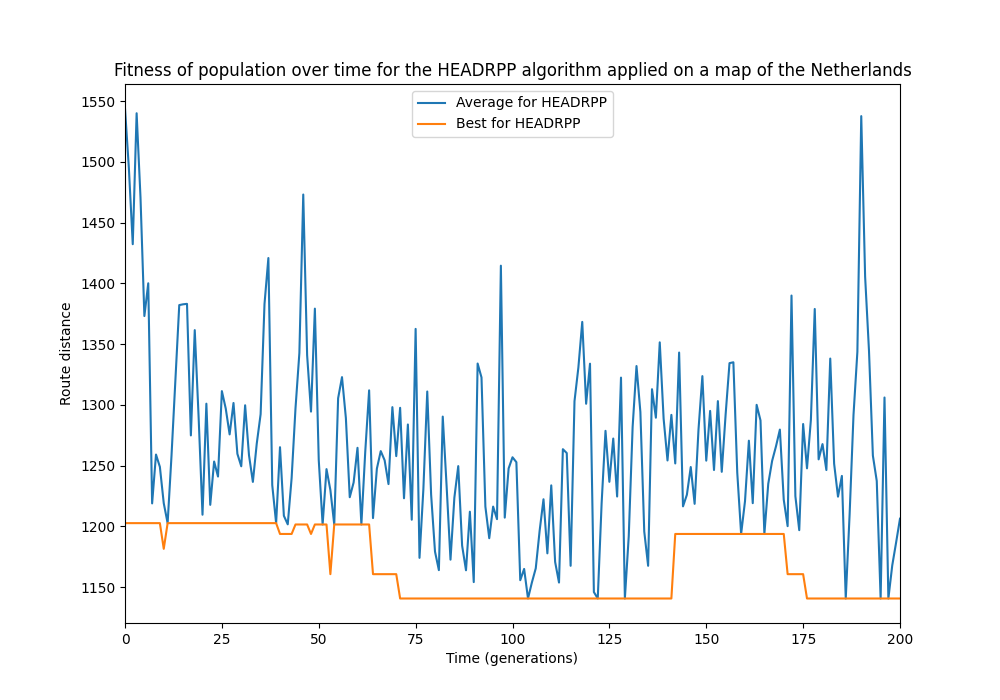
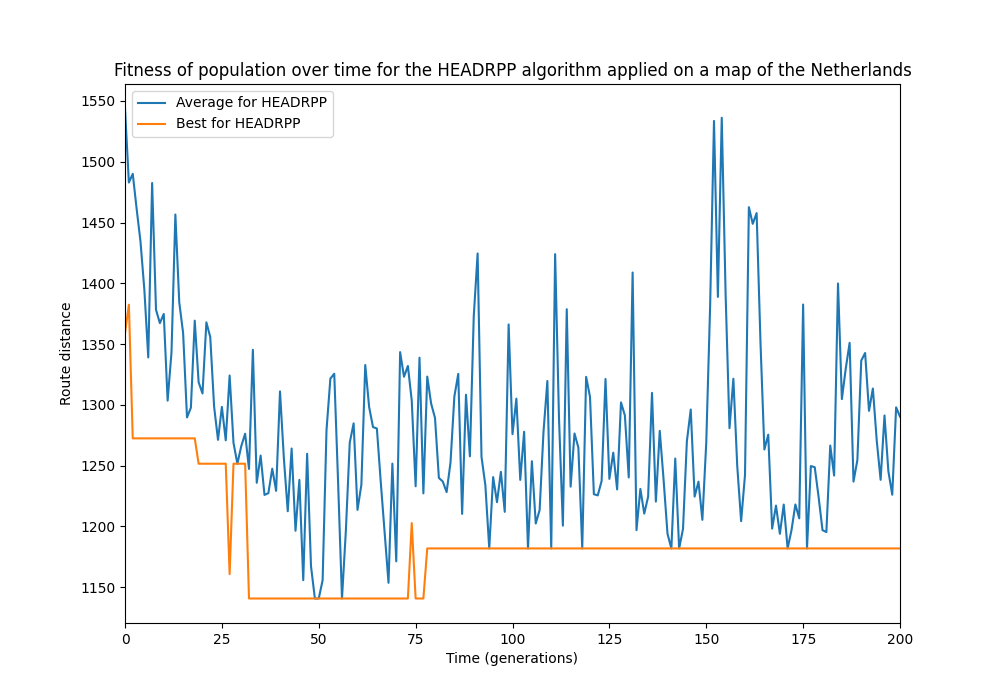
NSGA2 af, behalve crowd disnstance feature calculation

Changed region(s): [[0.093, 0.12, 0.899, 0.87], [0.403, 0.12, 0.62, 0.21]]

diff --git a/scripts/NSGA2.py b/scripts/NSGA2.py
@@ -79,8 +79,6 @@ class NSGA2:
 
 
     def crowding_distance_selection(self, frontiers, group_size):
-        assert len(frontiers) % group_size == 0
-
         parents = []
         i = 0
         while(len(parents)<group_size):
@@ -100,13 +98,13 @@ class NSGA2:
                     for k in range(0, len(frontiers[i])):
                         # Calculate the crowding distance for the individual frontier[i][j]
                         if closest_neighbour_1 is None:
-                            distance_1 = math.dist(frontiers[i][j], frontiers[i][k])
+                            distance_1 = 0 # math.dist(frontiers[i][j], frontiers[i][k])
                             closest_neighbour_1 = (k, distance_1)
                         elif closest_neighbour_2 is None:
-                            distance_2 = math.dist(frontiers[i][j], frontiers[i][k])
+                            distance_2 = 0 # math.dist(frontiers[i][j], frontiers[i][k])
                             closest_neighbour_2 = (k, distance_2)
                         else:
-                            distance_3 = math.dist(frontiers[i][j], frontiers[i][k])
+                            distance_3 = 0 # math.dist(frontiers[i][j], frontiers[i][k])
                             if distance_3 < closest_neighbour_1[1]:
                                 closest_neighbour_1 = (k, distance_3)
                             elif distance_3 < closest_neighbour_2[1]:
@@ -115,11 +113,14 @@ class NSGA2:
                     # Which is the sum of the distances of the two closest neighbours
                     crowding_distance_i_j = closest_neighbour_1[-1] + closest_neighbour_2[-1]
                     crowding_distances.append((frontiers[i][j], crowding_distance_i_j))
+
+                    # Sort crowding_distances based on crowding distances
+                    crowding_distances.sort(key=lambda x: x[1], reverse=True)
+
                 # To fill the population we need k more parents
                 k = group_size - len(parents)
-                k_parents = crowding_distances[:k]
-                for j in range(0, k):
-                    parents.append(k_parents[j][0])
+                k_parents = [pair[0] for pair in crowding_distances[:k]]
+                parents.extend(k_parents)
             i = i + 1
         return parents
 
